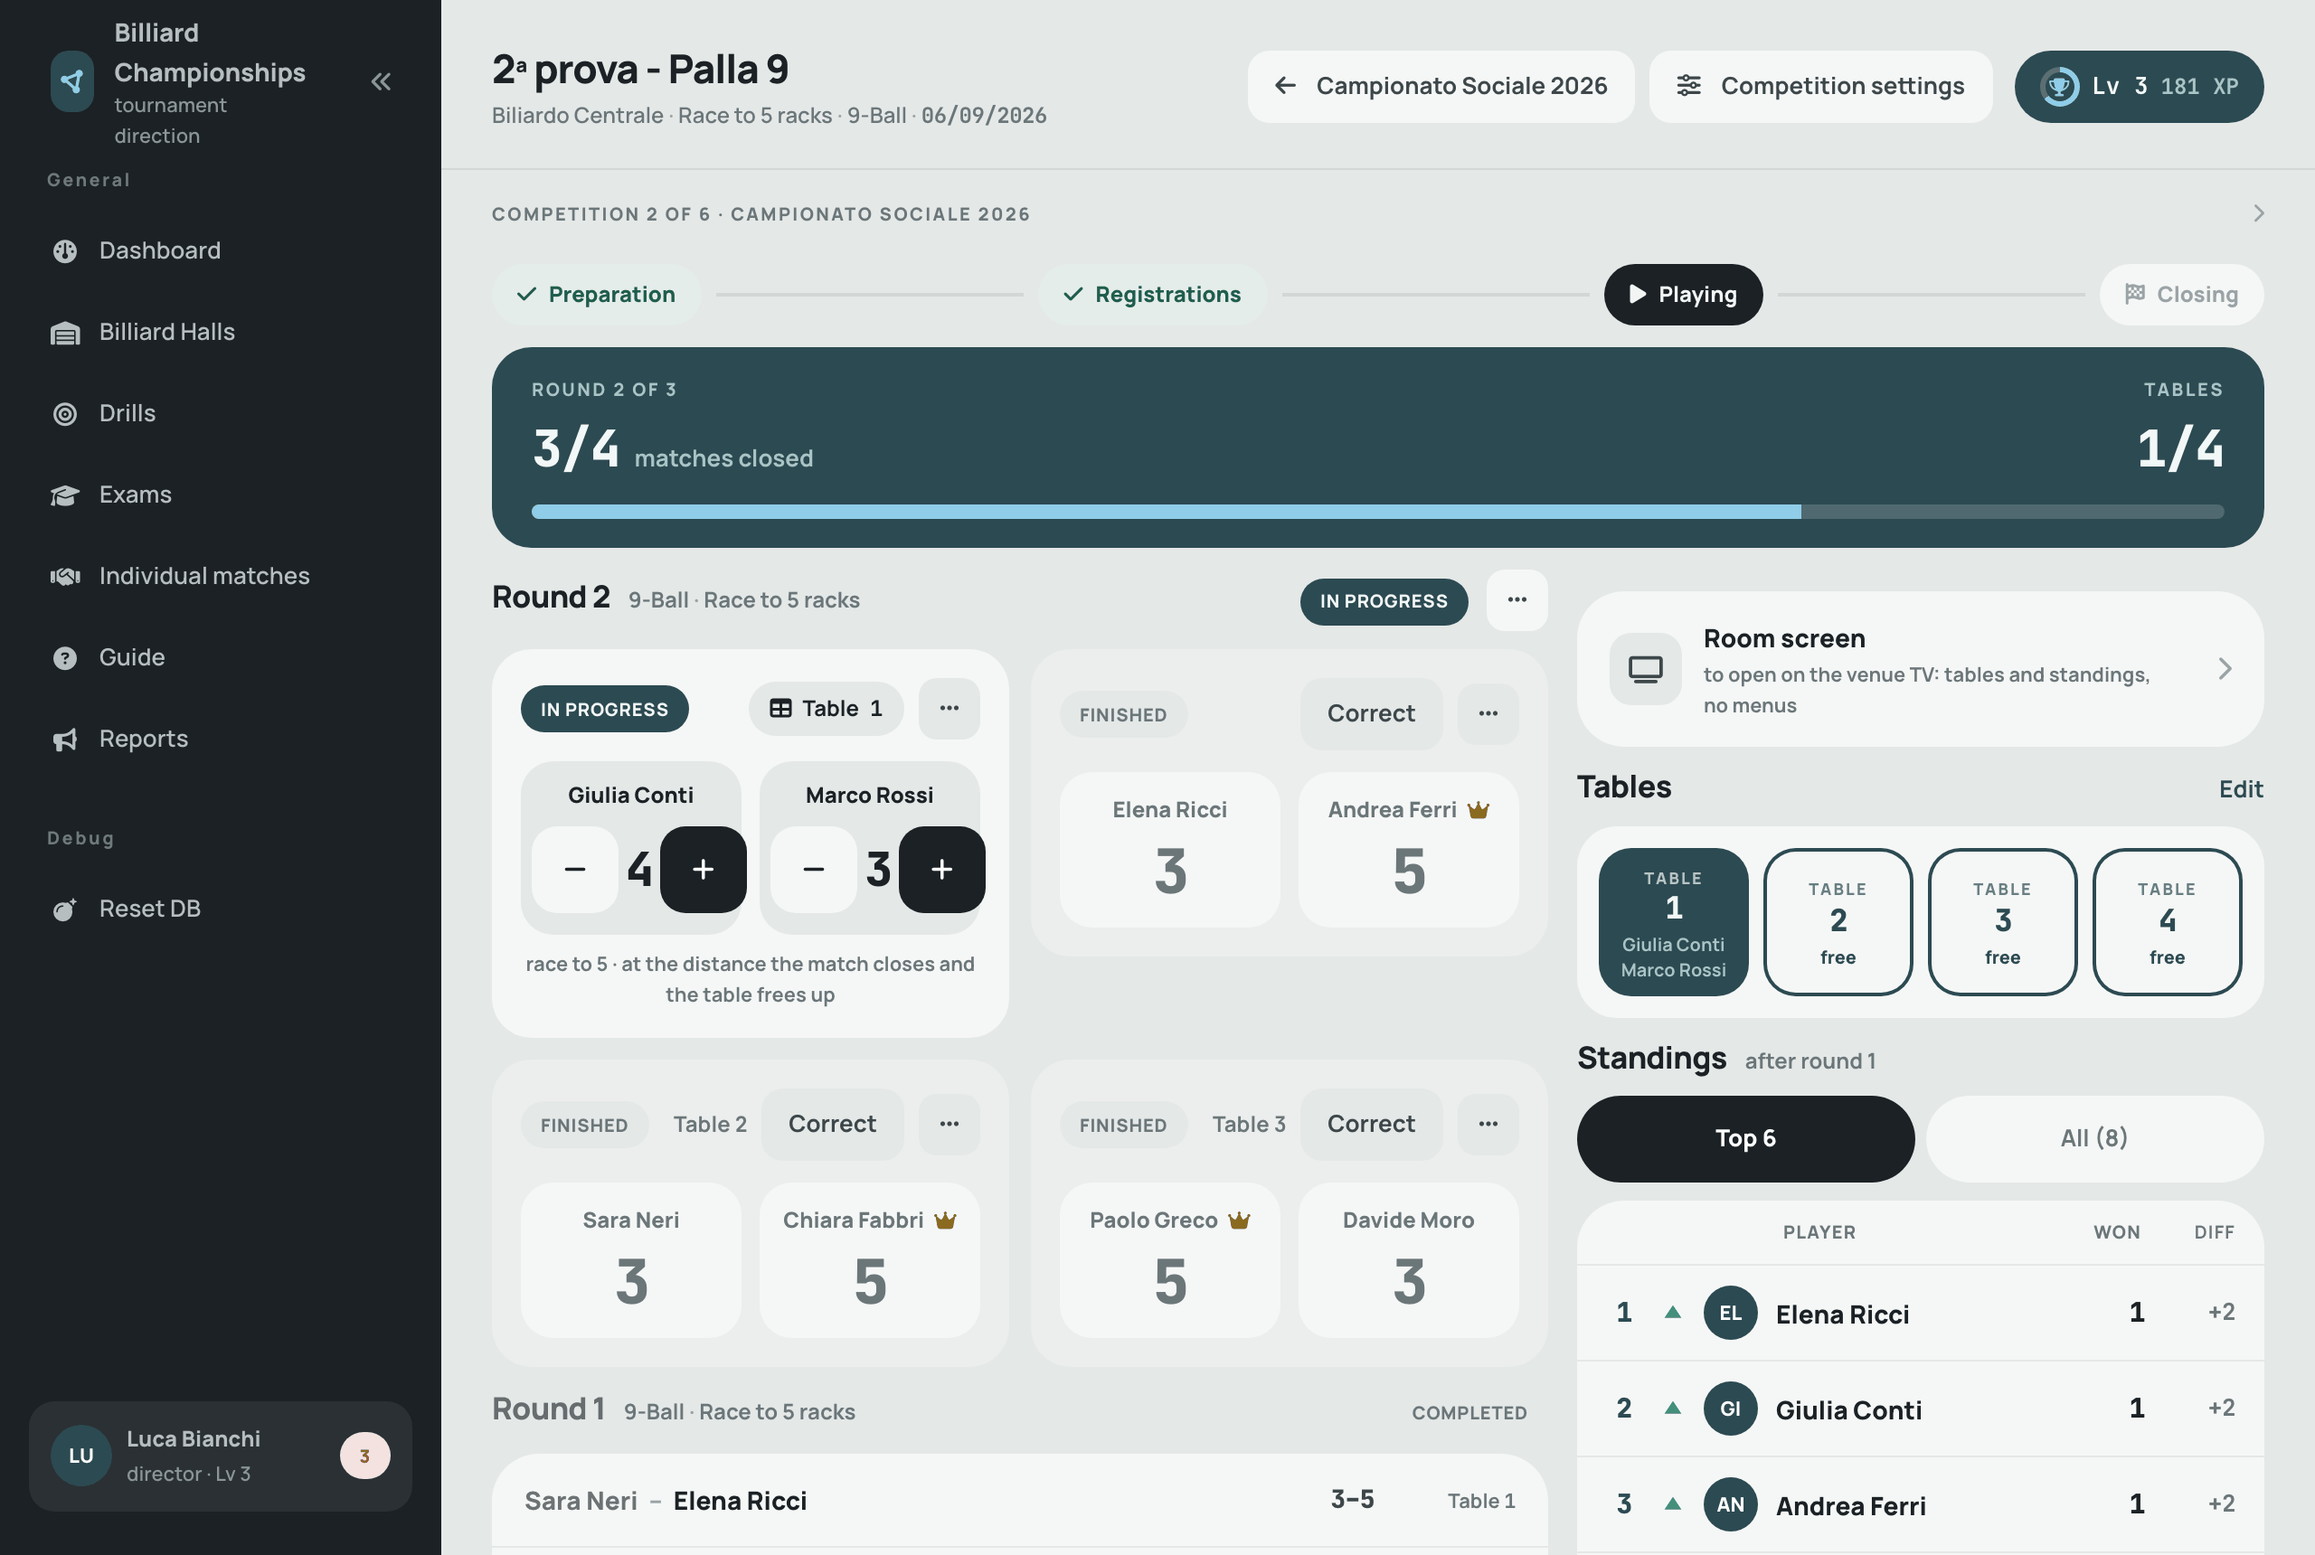
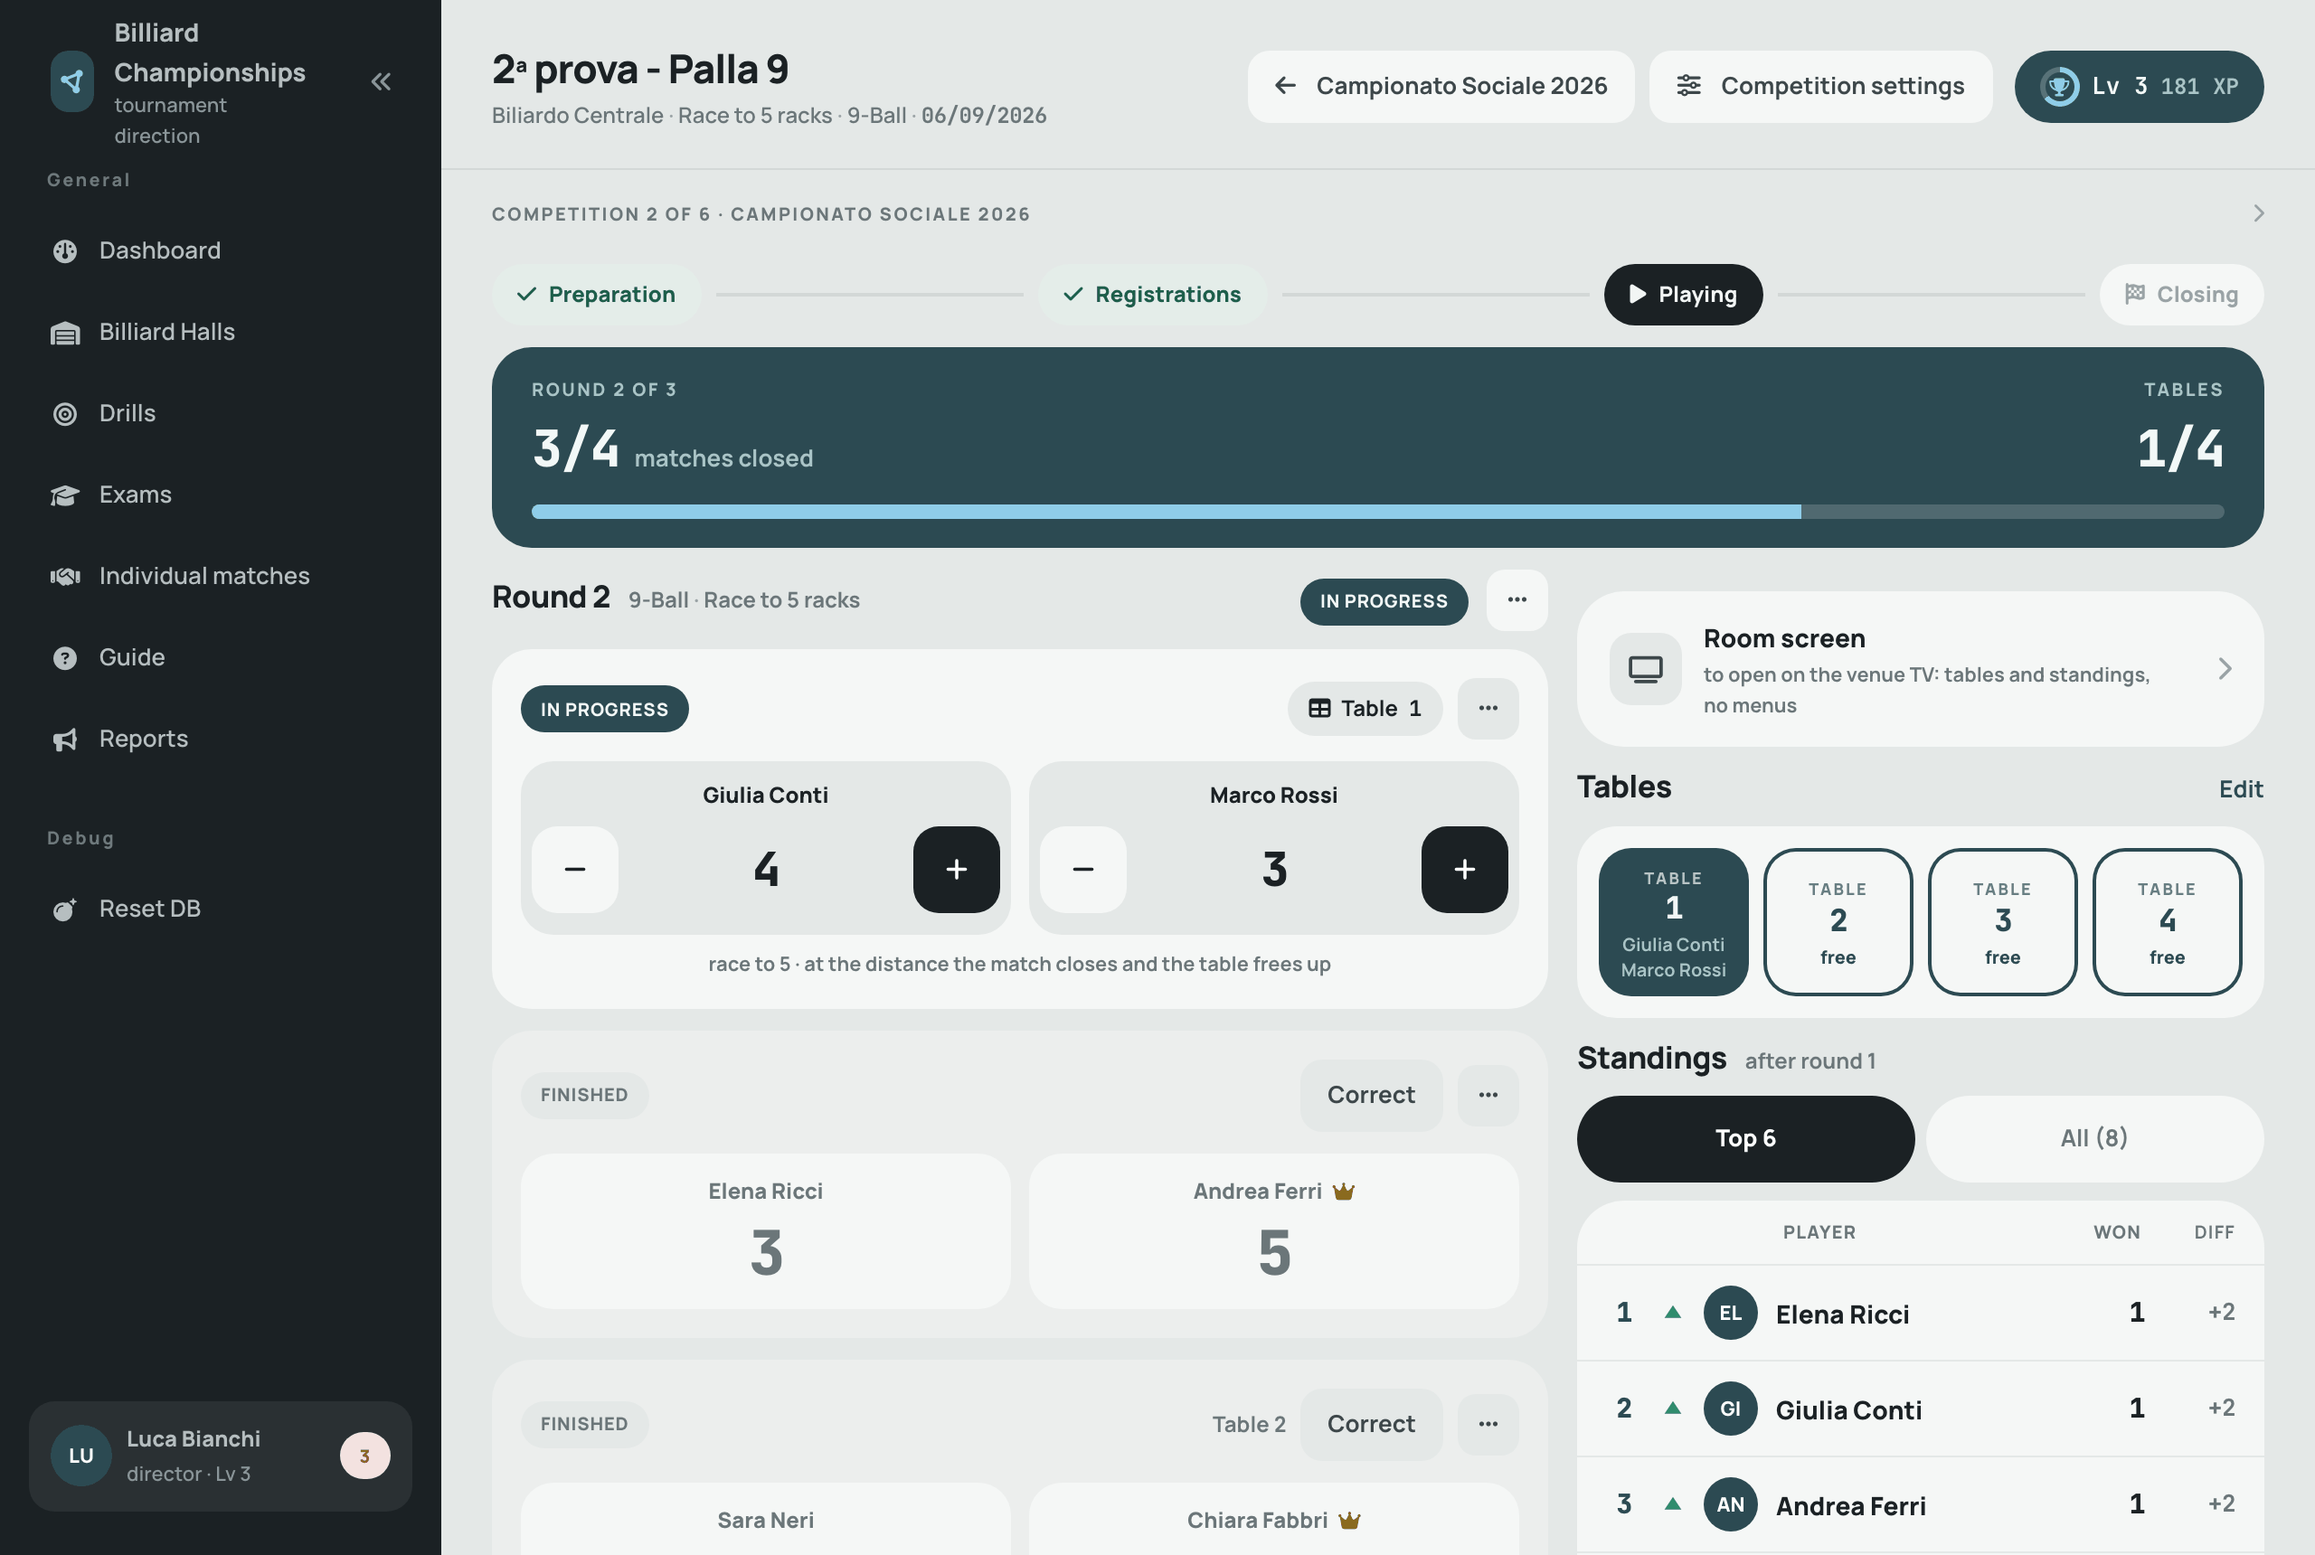
fix: le card delle partite non sbordano nelle colonne strette del desktop (#375)
* fix: le card delle partite non sbordano nelle colonne strette del desktop

Nella griglia a due colonne della pagina del direttore, a 1024 e 1280 con
la colonna laterale, ogni card era larga circa 160px: i nomi si
troncavano, il + degli stepper usciva dal lato e la testata di una
partita conclusa schiacciava stato e tavolo uno contro l'altro. Le colonne
ora sono due solo dove una card ha almeno 340px; il lato con gli stepper e'
un contenitore che, sotto i 150px, impila + e - come nel trio; la testata
va a capo invece di schiacciarsi.

* docs: schermate della pagina gara con le card affiancate solo dove ci stanno

---------

diff --git a/static/css/theme-7c.css b/static/css/theme-7c.css
@@ -3299,8 +3299,10 @@ a.c7-rows__row:hover { background: var(--c7-sunken); }
    -------------------------------------------------------------------------- */
 
 /* Una geometria sola per ogni stato: nome sopra, numero grande sotto. */
-.c7-partita__testa { display: flex; align-items: center; justify-content: space-between; gap: 10px; }
-.c7-partita__destra { display: flex; align-items: center; gap: 8px; }
+/* Nella griglia a due colonne del desktop la testata (stato, tavolo,
+   Correggi, menu) non sta su una riga: va a capo invece di schiacciarsi. */
+.c7-partita__testa { display: flex; align-items: center; justify-content: space-between; gap: 8px 10px; flex-wrap: wrap; }
+.c7-partita__destra { display: flex; align-items: center; gap: 8px; flex-wrap: wrap; justify-content: flex-end; margin-left: auto; }
 .c7-partita__tavolo { font-size: 12px; font-weight: 700; white-space: nowrap; }
 .c7-partita__tavolo--btn {
   height: 30px; padding: 0 12px; border: 0; border-radius: var(--c7-r-pill);
@@ -3319,7 +3321,14 @@ a.c7-rows__row:hover { background: var(--c7-sunken); }
 .c7-partita__step { margin-top: 8px; display: flex; align-items: center; gap: 4px; }
 /* Bersagli tattili da 48px (ui-7c): per starci a 390px il lato con gli
    stepper stringe il suo margine orizzontale. */
-.c7-partita__lato--stepper { padding: 10px 6px 12px; }
+.c7-partita__lato--stepper { padding: 10px 6px 12px; container-type: inline-size; }
+/* Quando il lato e' piu' stretto di «− numero +» con due bersagli da 48px,
+   come nelle card affiancate del desktop, il + sale sopra il numero e il −
+   scende sotto: la stessa soluzione del trio, invece di sbordare. */
+@container (max-width: 150px) {
+  .c7-partita__step { flex-direction: column-reverse; gap: 6px; }
+  .c7-partita__step .c7-partita__num { flex: none; font-size: 28px; }
+}
 .c7-partita__step .c7-partita__num { margin-top: 0; flex: 1; font-size: 26px; }
 .c7-partita__step button {
   width: 48px; height: 48px; border: 0; border-radius: var(--c7-r-control); flex-shrink: 0;
@@ -3351,10 +3360,13 @@ a.c7-rows__row:hover { background: var(--c7-sunken); }
 .c7-partita--x .c7-partita__lati { grid-template-columns: 1fr; }
 .c7-partita--x .c7-partita__num { font-size: 14px; color: var(--c7-ink-muted); text-transform: uppercase; letter-spacing: .08em; }
 
-/* Le partite del turno: pila sul telefono, griglia a due colonne sul desktop (3.9). */
+/* Le partite del turno: pila sul telefono, griglia sul desktop (3.9). Le
+   colonne sono due solo dove ci stanno: sotto i 340px una card taglia i nomi e
+   manda a capo la testata, come succedeva a 1024 e 1280 con la colonna
+   laterale aperta. */
 .c7-partite { display: flex; flex-direction: column; gap: var(--c7-gap); }
 @media (min-width: 992px) {
-  .c7-partite { display: grid; grid-template-columns: repeat(2, minmax(0, 1fr)); align-items: start; }
+  .c7-partite { display: grid; grid-template-columns: repeat(auto-fill, minmax(340px, 1fr)); align-items: start; }
   .c7-partita--mia { grid-column: 1 / -1; }
 }
 

diff --git a/tests/new/unit/test_card_partita_colonne_strette.py b/tests/new/unit/test_card_partita_colonne_strette.py
@@ -1,0 +1,50 @@
+"""La card della partita regge le colonne strette della griglia del desktop.
+
+Sul desktop le partite del turno stanno in due colonne (canvas 3.9), e ogni
+lato della card con gli stepper diventa più stretto di «− numero +» con due
+bersagli da 48px: il + sbordava dal lato. E la testata di una partita
+conclusa — stato, tavolo, «Correggi», menu — non stava su una riga e si
+schiacciava fino a far toccare stato e tavolo. Trovato nelle schermate della
+guida il 2026-09-13; c'era già dalla prima card con gli stepper.
+
+Il CSS non si prova con un browser nella suite: questi controlli leggono le
+regole che lo impediscono, così che toglierle faccia rosso.
+"""
+
+from pathlib import Path
+
+import pytest
+
+pytestmark = pytest.mark.unit
+
+CSS = (
+    Path(__file__).resolve().parents[3] / "static" / "css" / "theme-7c.css"
+).read_text(encoding="utf-8")
+
+
+def _regola(selettore: str) -> str:
+    inizio = CSS.index(selettore + " {")
+    return CSS[inizio : CSS.index("}", inizio)]
+
+
+def test_il_lato_con_gli_stepper_e_un_contenitore():
+    assert "container-type: inline-size" in _regola(".c7-partita__lato--stepper")
+
+
+def test_sotto_la_larghezza_di_due_bersagli_gli_stepper_si_impilano():
+    inizio = CSS.index("@container (max-width: 150px)")
+    blocco = CSS[inizio : CSS.index("\n}\n", inizio)]
+    assert ".c7-partita__step { flex-direction: column-reverse" in blocco
+
+
+def test_le_colonne_delle_partite_sono_due_solo_dove_ci_stanno():
+    """A 1024 e 1280, con la colonna laterale, due card affiancate erano da 160px."""
+    inizio = CSS.index("@media (min-width: 992px) {\n  .c7-partite {")
+    blocco = CSS[inizio : CSS.index("\n}\n", inizio)]
+    assert "repeat(auto-fill, minmax(340px, 1fr))" in blocco
+    assert "repeat(2, minmax(0, 1fr))" not in blocco
+
+
+def test_la_testata_della_card_va_a_capo():
+    assert "flex-wrap: wrap" in _regola(".c7-partita__testa")
+    assert "flex-wrap: wrap" in _regola(".c7-partita__destra")
